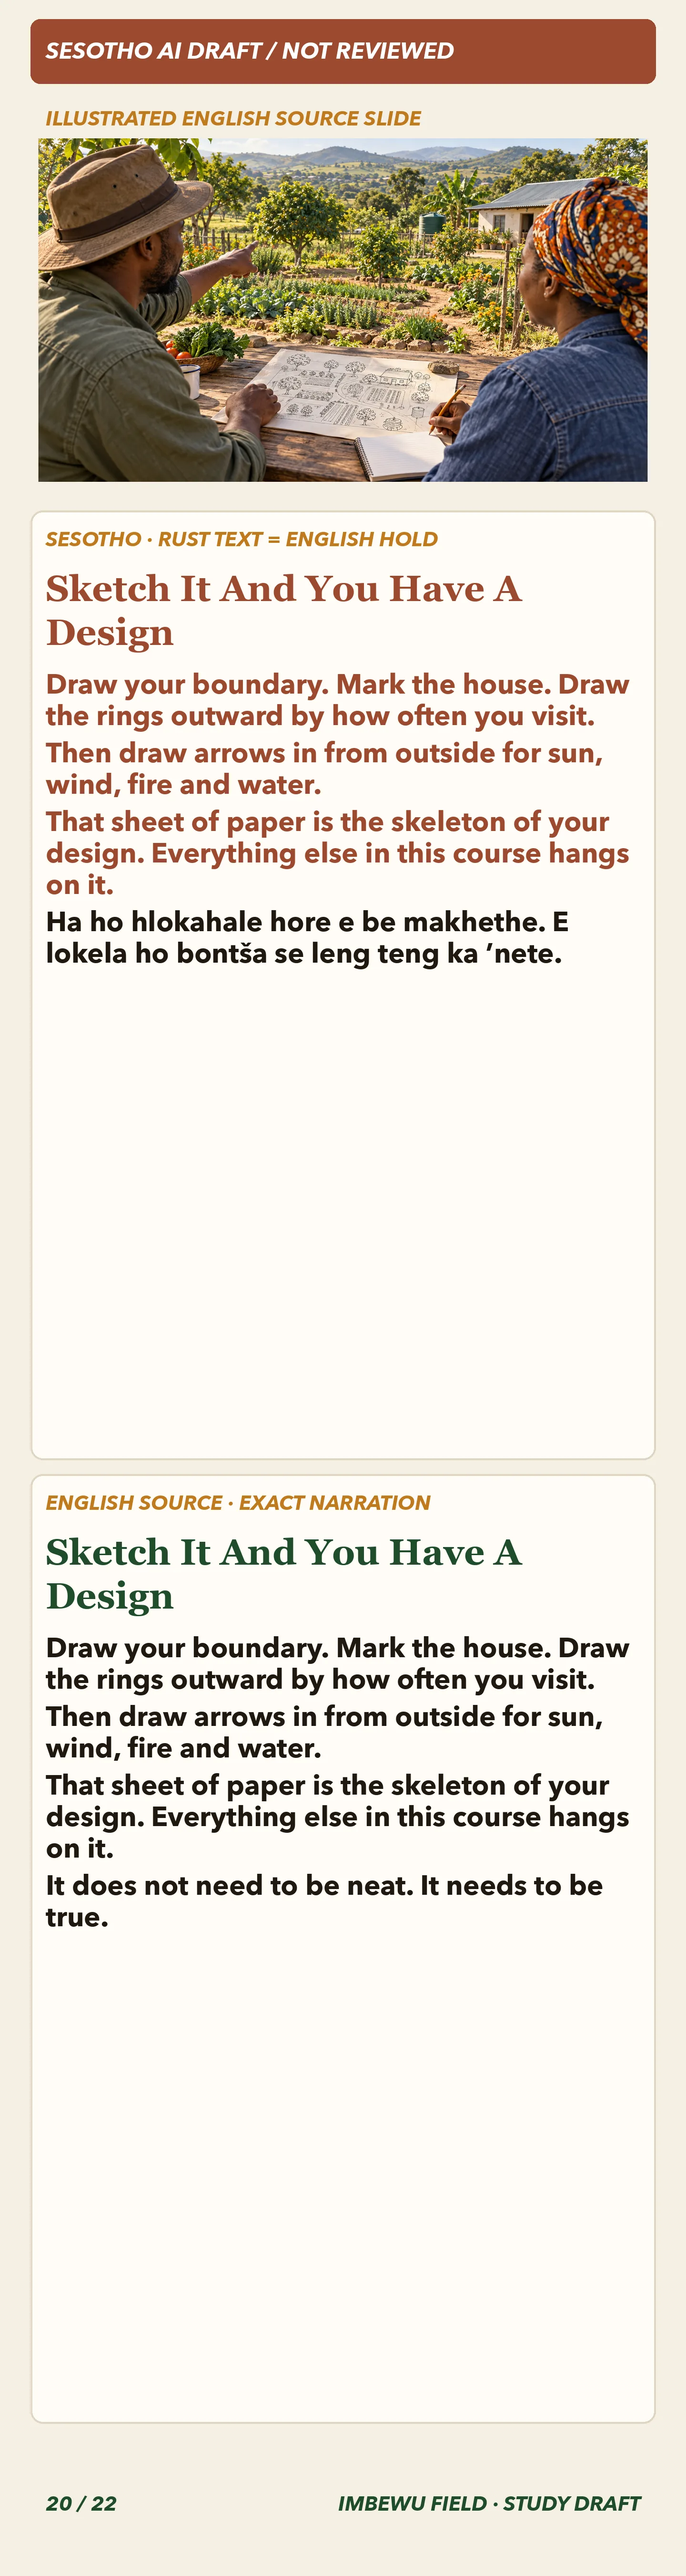
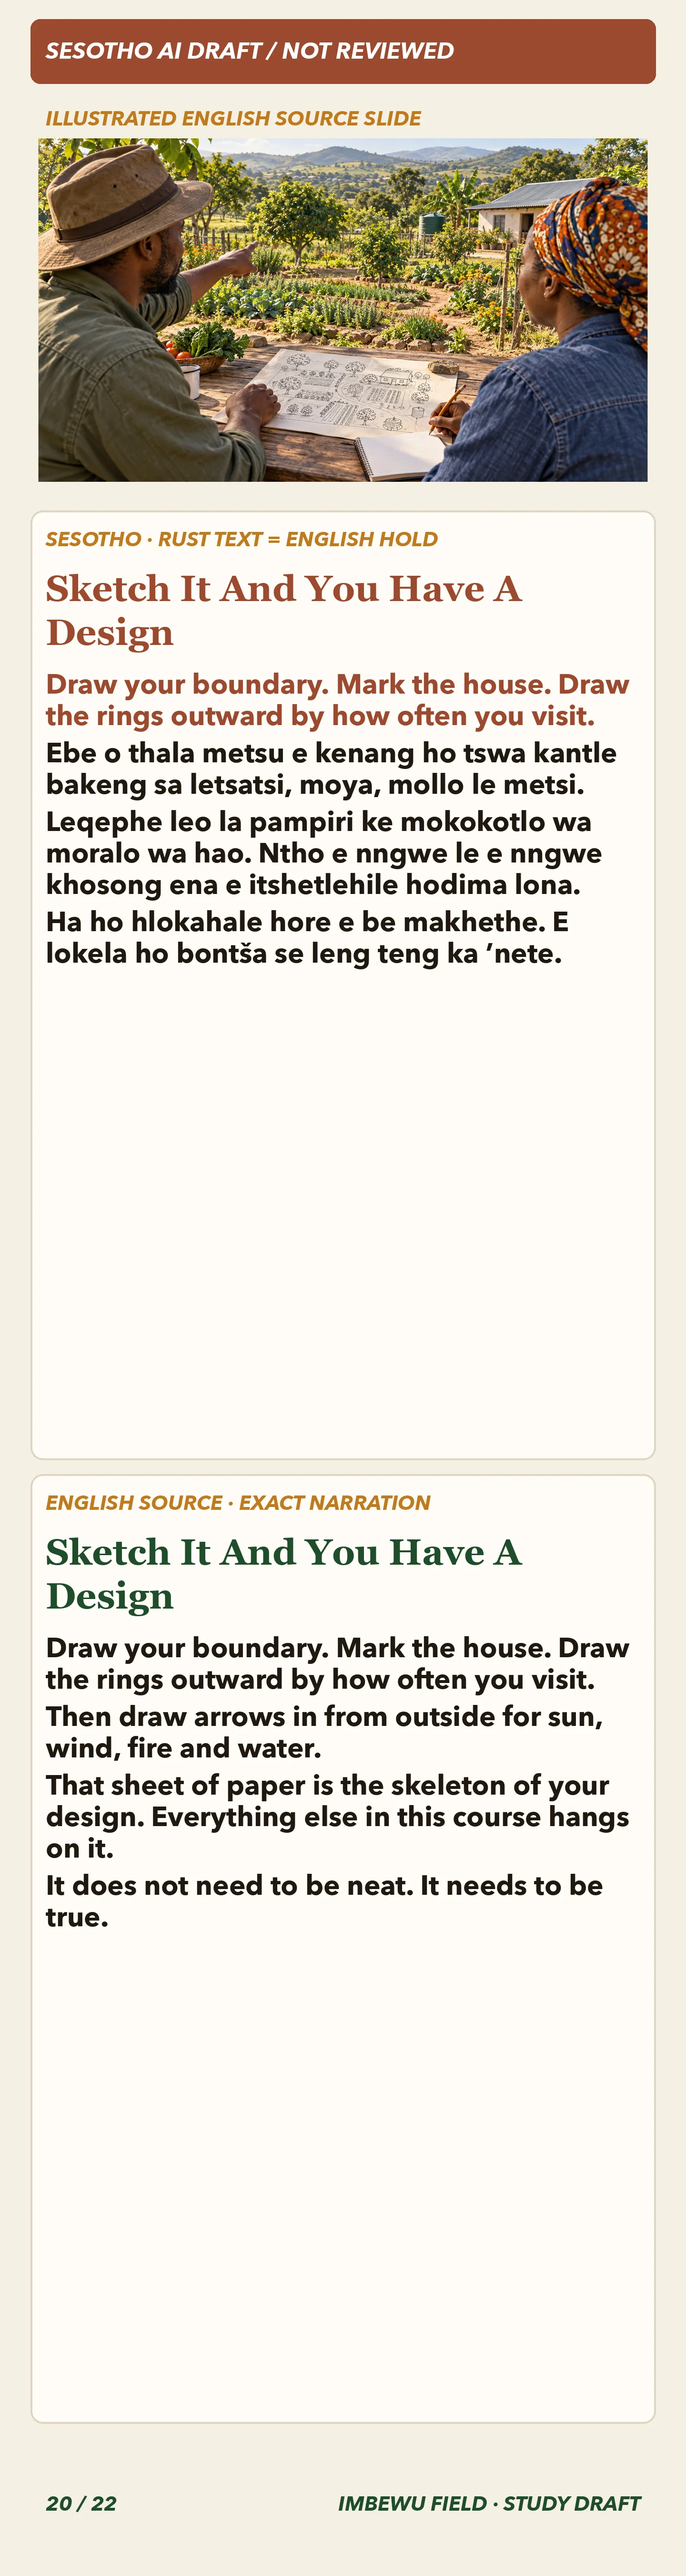
Extend source-paired Sesotho Introduction slides

Changed region(s): [[0.0625, 0.28, 0.9062, 0.3733]]

diff --git a/tests/paired-draft-slides.test.ts b/tests/paired-draft-slides.test.ts
@@ -30,6 +30,28 @@ test('the Sesotho pilot pairs all 22 actual English introduction slides in autho
   assert.equal(validatePairedDraft(completeHold(), source).length, 22);
 });
 
+test('Sesotho Introduction review slides keep uncertain field steps paired in English beside backchecked draft lines', () => {
+  const packet = JSON.parse(readFileSync('docs/narration/intro-permaculture.st.paired-draft.json', 'utf8'));
+  const slides = validatePairedDraft(packet, source, 'st');
+  const body = (n: number) => slides[n - 1].target.body;
+
+  assert.equal(body(20)[1].status, 'draft');
+  assert.equal(body(20)[1].text, 'Ebe o thala metsu e kenang ho tswa kantle bakeng sa letsatsi, moya, mollo le metsi.');
+  assert.equal(body(20)[2].status, 'draft');
+  assert.equal(body(20)[2].text, 'Leqephe leo la pampiri ke mokokotlo wa moralo wa hao. Ntho e nngwe le e nngwe khosong ena e itshetlehile hodima lona.');
+  assert.equal(body(20)[0].status, 'english-hold', 'the rings instruction stays paired in exact English after the backcheck flagged ambiguous wording');
+
+  assert.equal(body(21)[3].status, 'draft');
+  assert.equal(body(21)[3].text, 'Nka senepe sa setshwantsho.');
+  assert.ok(body(21).slice(0, 3).every((part: any) => part.status === 'english-hold'),
+    'technical zone and energy directions stay exact English for facilitator review');
+
+  assert.equal(body(22)[3].status, 'draft');
+  assert.equal(body(22)[3].text, 'Ebe o botsa moahisani a le mong ya hodileng hore na moya o mobe ka ho fetisisa o tswa ntlheng efe, mme o bapise karabo ya hae le motsu wa hao.');
+  assert.ok(body(22).slice(0, 3).every((part: any) => part.status === 'english-hold'),
+    'uncertain ground checking, counting and crop relocation wording stays exact English');
+});
+
 test('standard written Xitsonga uses the same exact source and paragraph pairing as Sesotho', () => {
   const draft = completeHold('ts');
   assert.equal(validatePairedDraft(draft, source, 'ts').length, source.length);

diff --git a/lib/course-asset-sizes.ts b/lib/course-asset-sizes.ts
@@ -674,9 +674,9 @@ export const COURSE_ASSET_SIZES: Readonly<Record<string, number>> = Object.freez
   '/course-decks/intro-permaculture/st/slide-17.webp': 529086,
   '/course-decks/intro-permaculture/st/slide-18.webp': 277404,
   '/course-decks/intro-permaculture/st/slide-19.webp': 499162,
-  '/course-decks/intro-permaculture/st/slide-20.webp': 403192,
-  '/course-decks/intro-permaculture/st/slide-21.webp': 192792,
-  '/course-decks/intro-permaculture/st/slide-22.webp': 231466,
+  '/course-decks/intro-permaculture/st/slide-20.webp': 443178,
+  '/course-decks/intro-permaculture/st/slide-21.webp': 208754,
+  '/course-decks/intro-permaculture/st/slide-22.webp': 249256,
   '/course-decks/intro-permaculture/ts/slide-01.webp': 268576,
   '/course-decks/intro-permaculture/ts/slide-02.webp': 266810,
   '/course-decks/intro-permaculture/ts/slide-03.webp': 246212,

diff --git a/docs/study-translation-reviews/INTRO-PERMACULTURE-ST-SLIDES-12-22-AI-DRAFT-REVIEW.md b/docs/study-translation-reviews/INTRO-PERMACULTURE-ST-SLIDES-12-22-AI-DRAFT-REVIEW.md
@@ -6,6 +6,8 @@ Source: `docs/narration/intro-permaculture.en.md` at the same revision. English 
 
 The target wording is provisional and must be checked by a fluent Sesotho speaker from the intended Free State audience. Technical permaculture terms remain in English where useful for facilitator explanation. Actionable field assignments and uncertain farming, water, wind, crop, count, and labour claims remain on hold.
 
+Slides 20–22 received one additional machine-translation pass followed by a separate semantic backcheck. Only four lines with a clear back-translation were added: slide 20’s arrows and design-paper metaphor, slide 21’s photo instruction (with the spelling corrected), and slide 22’s neighbour question. The backcheck flagged the rings word, the land/Zone and energy directions, ground-checking, counting, and crop-relocation wording as ambiguous or awkward; those source paragraphs stay exact English. The English source remains beside every draft, and this check is not human approval.
+
 ## Slide 12
 
 **Tally:** headings translated 0, held 1; body paragraphs translated 3, held 0. Pause cues are source directions and are excluded.
@@ -451,7 +453,7 @@ On your own site, observe the damaging winds before choosing where to plant. Thi
 
 ## Slide 20
 
-**Tally:** headings translated 0, held 1; body paragraphs translated 1, held 3. Pause cues are source directions and are excluded.
+**Tally:** headings translated 0, held 1; body paragraphs translated 3, held 1. Pause cues are source directions and are excluded.
 
 **Exact English heading:**
 
@@ -497,9 +499,11 @@ It does not need to be neat. It needs to be true.
 
 - Paragraph 1 — **exact-English hold (is a field design instruction involving boundaries, house and visit-based rings):** Draw your boundary. Mark the house. Draw the rings outward by how often you visit.
 
-- Paragraph 2 — **exact-English hold (is an instruction to map external forces on the design):** Then draw arrows in from outside for sun, wind, fire and water.
+- Paragraph 2 — **provisional machine draft, unreviewed:** Ebe o thala metsu e kenang ho tswa kantle bakeng sa letsatsi, moya, mollo le metsi.
+  - Exact English: `Then draw arrows in from outside for sun, wind, fire and water.`
 
-- Paragraph 3 — **exact-English hold (uses a design metaphor that could be unclear if translated literally):** That sheet of paper is the skeleton of your design. Everything else in this course hangs on it.
+- Paragraph 3 — **provisional machine draft, unreviewed:** Leqephe leo la pampiri ke mokokotlo wa moralo wa hao. Ntho e nngwe le e nngwe khosong ena e itshetlehile hodima lona.
+  - Exact English: `That sheet of paper is the skeleton of your design. Everything else in this course hangs on it.`
 
 - Paragraph 4: `[pause]` is a source direction; no target copy.
 
@@ -508,7 +512,7 @@ It does not need to be neat. It needs to be true.
 
 ## Slide 21
 
-**Tally:** headings translated 1, held 0; body paragraphs translated 0, held 4. Pause cues are source directions and are excluded.
+**Tally:** headings translated 1, held 0; body paragraphs translated 1, held 3. Pause cues are source directions and are excluded.
 
 **Exact English heading:**
 
@@ -552,11 +556,12 @@ Photograph the sketch.
 
 - Paragraph 3 — **exact-English hold (is a field assignment using the technical concept of external energies):** Add an arrow for each energy that arrives from outside, and label where it comes from.
 
-- Paragraph 4 — **exact-English hold (is an assignment instruction):** Photograph the sketch.
+- Paragraph 4 — **provisional machine draft, unreviewed:** Nka senepe sa setshwantsho.
+  - Exact English: `Photograph the sketch.`
 
 ## Slide 22
 
-**Tally:** headings translated 1, held 0; body paragraphs translated 0, held 4. Pause cues are source directions and are excluded.
+**Tally:** headings translated 1, held 0; body paragraphs translated 1, held 3. Pause cues are source directions and are excluded.
 
 **Exact English heading:**
 
@@ -600,4 +605,5 @@ Then ask one older neighbour which direction the worst wind comes from, and comp
 
 - Paragraph 3 — **exact-English hold (is an instruction to identify and relocate a planting):** Find one thing planted further away than how often you use it, and write down where it should move to.
 
-- Paragraph 4 — **exact-English hold (is an instruction involving a neighbour and wind-direction comparison):** Then ask one older neighbour which direction the worst wind comes from, and compare their answer with your arrow.
+- Paragraph 4 — **provisional machine draft, unreviewed:** Ebe o botsa moahisani a le mong ya hodileng hore na moya o mobe ka ho fetisisa o tswa ntlheng efe, mme o bapise karabo ya hae le motsu wa hao.
+  - Exact English: `Then ask one older neighbour which direction the worst wind comes from, and compare their answer with your arrow.`

diff --git a/docs/study-translation-reviews/INTRO-PERMACULTURE-ST-SLIDE-PILOT-PLAN.md b/docs/study-translation-reviews/INTRO-PERMACULTURE-ST-SLIDE-PILOT-PLAN.md
@@ -10,7 +10,7 @@ The app already has a Sesotho intro-permaculture review packet and visibly paire
 
 ## Safe pilot shape
 
-Use the existing numbered English source at `docs/narration/intro-permaculture.en.md` as the immutable source. The paired JSON packet contains exactly 22 numbered records. Each record retains the exact English heading and source paragraphs beside a provisional Sesotho heading and draft paragraphs. Missing or held target copy is explicitly marked as an English hold; no source fact, condition, number, or species is silently omitted. The packet carries an unreviewed machine-draft status. Its present 42 draft paragraphs and 46 English holds are review data, not a complete Sesotho teaching script.
+Use the existing numbered English source at `docs/narration/intro-permaculture.en.md` as the immutable source. The paired JSON packet contains exactly 22 numbered records. Each record retains the exact English heading and source paragraphs beside a provisional Sesotho heading and draft paragraphs. Missing or held target copy is explicitly marked as an English hold; no source fact, condition, number, or species is silently omitted. The packet carries an unreviewed machine-draft status. It now contains 46 draft paragraphs and 42 English holds; these remain review data, not a complete Sesotho teaching script.
 
 The generator now has an opt-in `--paired-draft` path. It checks all 22 records against the English script before rendering and uses vertically stacked Sesotho and exact-English panels with an unreviewed banner. The English and isiZulu paths remain unchanged. The proof reproduces each existing illustrated English source slide above the paired text, so a reviewer can compare the visual teaching context. Slide 10 uses the existing Black African site-observation photograph named in `INTRO-PERMACULTURE-ST-PAIRED-ART.json` because the English slide shows a White man; its exact English narration stays below. All 22 proofs are compressed as WebP learner assets. Slide 15 uses an existing numbered footpath illustration instead of the concentric circles Rory rejected. Slide 17 uses an existing Black African site-walk photograph instead of a second concentric diagram. Both visual changes are examples, not fixed zone layouts. The Sesotho copy is incomplete, and there is no Sesotho narration.
 
